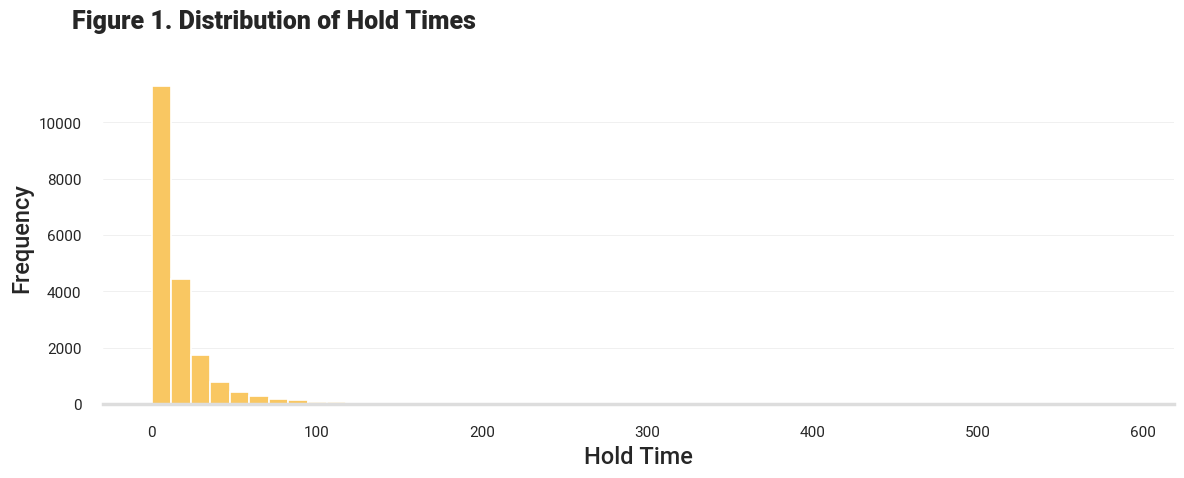
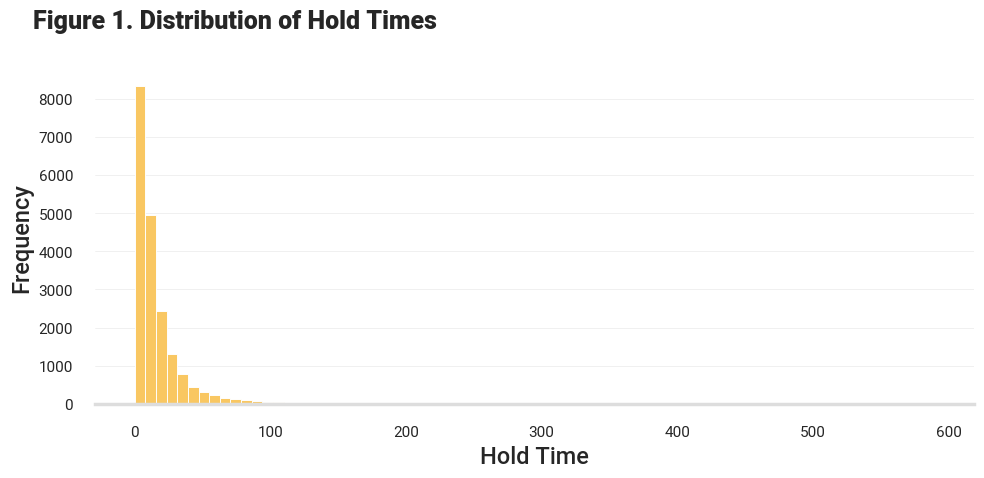
Update documentation

diff --git a/searchindex.js b/searchindex.js
@@ -1,1 +1,1 @@
-Search.setIndex({docnames:["Notebook1-EDA","Notebook2-DataCleaning","Notebook3-FeatureEngineering","Notebook4-FeatureImportance","intro"],envversion:{"sphinx.domains.c":2,"sphinx.domains.changeset":1,"sphinx.domains.citation":1,"sphinx.domains.cpp":5,"sphinx.domains.index":1,"sphinx.domains.javascript":2,"sphinx.domains.math":2,"sphinx.domains.python":3,"sphinx.domains.rst":2,"sphinx.domains.std":2,"sphinx.ext.intersphinx":1,"sphinxcontrib.bibtex":9,sphinx:56},filenames:["Notebook1-EDA.ipynb","Notebook2-DataCleaning.ipynb","Notebook3-FeatureEngineering.ipynb","Notebook4-FeatureImportance.ipynb","intro.md"],objects:{},objnames:{},objtypes:{},terms:{"0":[0,1,2,3,4],"00":3,"000":3,"000000":3,"0005":3,"001":3,"0011":3,"001191":3,"0014":3,"001416":3,"0016":3,"002":3,"002352":3,"003":3,"0034":3,"003580":3,"004":3,"004491":3,"005":3,"0050":3,"0052":3,"006":3,"007":3,"007307":3,"008":3,"009":3,"01":3,"010":3,"011":3,"011825":3,"015663":3,"015915":3,"016813":3,"017":3,"019":3,"019384e":3,"02":3,"023":3,"0230":3,"024":3,"025":3,"026":3,"03":4,"032":3,"033324":3,"041":3,"042":3,"043080":3,"044":3,"044989":3,"046877":3,"05":3,"056":3,"061":3,"070":3,"077603":[0,2],"083971":[0,2,4],"088650":3,"09":3,"1":[2,4],"10":[0,2,3,4],"100":[0,3],"1000":4,"103":3,"105":3,"1085":1,"11":[1,3],"118":3,"12":[0,3],"1200":0,"121":3,"126":3,"128":3,"13":[2,3],"130":3,"134":3,"139":1,"14":3,"1400":2,"1414":2,"14511":3,"14540":3,"149477e":3,"14e":3,"15":[0,3,4],"150":[0,1,3],"151":[0,3],"1552":2,"16":[0,3],"160":[0,1,3],"164":[2,4],"168":3,"17":[0,3],"170":[0,1],"174":3,"177":[0,1],"178":3,"18":[0,3],"180":3,"181":[1,3],"18255":4,"189":3,"192":3,"19387":[1,2,3],"195":[1,2,3,4],"19733":[0,4],"2":[2,4],"20":[0,2,3],"200":3,"2005":1,"2023":[3,4],"21":3,"213":3,"213131":3,"2139":3,"216":3,"2194":3,"21e":3,"22":[0,2,3,4],"220":[1,2,4],"222":[2,4],"224":3,"225":3,"226":3,"23":3,"233":3,"238":3,"239":3,"2403":3,"242":[0,1,3],"244420e":3,"246":3,"25":[1,3],"250":3,"252":3,"257":3,"258":3,"258662":3,"260":3,"262e":3,"263":3,"264e":3,"27":3,"2771":3,"278":[0,1],"28":3,"284934":2,"29":3,"297":3,"3":[0,4],"300":[0,1],"303165":2,"305":3,"306":3,"308":3,"3095":3,"312":3,"318":3,"32":3,"320":[0,1],"331":3,"332":[2,4],"333":1,"334":3,"335665":2,"341":3,"342":3,"3435":3,"347115e":3,"351":3,"353840e":3,"3715":3,"3769":3,"377":3,"379":3,"382":3,"383":3,"387":[0,1],"39":0,"4":[0,2,4],"402":3,"407":3,"421600e":3,"422053647064944":3,"427657e":3,"435":3,"436204414656602":3,"447865314968272":3,"449":3,"45":3,"454":3,"456":[1,2,4],"4615":3,"467":3,"476563":2,"480":3,"4847":3,"485":[2,4],"488":3,"496":2,"497":3,"4th":1,"5":[0,1,2,3,4],"50":[0,3],"500":0,"5053":3,"506":3,"5168":3,"523":3,"526":3,"529":3,"532":3,"5342":3,"543":3,"546":3,"548":[1,2,3,4],"550938":2,"560":3,"566":3,"567":3,"568":3,"570":3,"571":3,"572":3,"575958":3,"583":3,"587":3,"596":3,"597":3,"5982":3,"6":[3,4],"605":3,"607699":3,"61":3,"610":3,"617":3,"620":3,"622190e":3,"62234436965736":3,"628":3,"63076":3,"6361":3,"638":3,"641":3,"644":3,"646":3,"650":3,"665":3,"6691":3,"6735":3,"675":1,"688":3,"68e":3,"7":3,"70":3,"700":2,"705":3,"707":2,"720":3,"740":3,"748214e":3,"750":3,"7507":3,"756":3,"757":3,"758":3,"775":1,"782904e":3,"784":3,"792":3,"8":[1,3],"811":3,"826":3,"8286":3,"829":3,"835529e":3,"839":3,"8460":3,"8465":3,"847":3,"855":2,"864":3,"865032":[0,2,4],"867834e":3,"8729":3,"878":3,"8875":3,"890":3,"8987":3,"9":[0,2,3],"901":3,"9068":3,"910":[1,3],"911":3,"912":3,"914":3,"920":[0,1,4],"925":3,"932":3,"939411":[0,1,2,4],"944098e":3,"945":3,"955":3,"957":3,"958":3,"965":3,"9655":3,"968":1,"97048":3,"974":3,"975":3,"979":3,"985":3,"986":3,"9866":3,"988677e":3,"991":3,"998885":[0,1,2,4],"999":3,"const":3,"do":1,"final":4,"float":[1,3],"import":[0,2,4],"int":[0,1,2],"null":4,"return":[3,4],"true":[0,1,2,3],"try":[1,3],"while":[0,4],A:[0,1],For:0,Is:0,No:[0,1,3],Of:[0,2],On:0,The:[0,1,3],Their:4,_static:0,about:[1,3],activ:4,ad:1,adam:0,add:3,add_const:3,adj:3,adjust:0,agg:1,aic:3,aishwarya:4,alexand:4,all:1,alpha:0,alphons:[0,1],american:[0,1],amp:0,an:[0,2,4],analysi:4,ani:3,ann:[0,1],annot:3,anth:1,antho:1,antholog:[0,1],anyth:[1,3],api:3,appear:1,append:2,appli:1,ar:[0,3],arang:2,arbitrari:2,argument:0,arrai:0,artifact:[0,1,2,4],artist:0,ascend:3,assum:3,astyp:[0,1,3],avail:1,averag:[0,1,3],avg:1,avg_pc1:1,avg_pc2:1,ax:0,axi:[0,1,2,3],b:0,bar:3,base:4,becaus:1,befor:1,bell:[0,1],bera:3,best_params_:3,better:0,between:0,bic:3,bin3:2,bin6:2,bin8:2,bin9:2,bin:[0,2],bin_label:2,bottom:0,box:2,boxplot:0,branch:2,brand:[0,1],brand_1:[1,2,4],brand_1_artifact:3,brand_1_davici:3,brand_1_ecru:3,brand_1_liberti:3,brand_1_nautilu:3,brand_1_oth:3,brand_1_stav:3,brand_1_unknown:3,brand_1_wentworth:3,brand_2:[1,2,4],brand_2_artifact:3,brand_2_davici:3,brand_2_ecru:3,brand_2_liberti:3,brand_2_nautilu:3,brand_2_oth:3,brand_2_stav:3,brand_2_unknown:3,brand_2_wentworth:3,bring:3,build:3,busi:4,c:0,calcul:3,call:0,can:[1,2],cannot:3,cat:[0,1,2],categori:0,check:0,citi:[0,2],clean:[0,3,4],clear:0,club:4,cmap:3,code:2,coef:3,coef_:3,coeffici:3,color:[0,1],color_dict:0,column:[0,1,3,4],com:4,comment:[0,1],common:1,compani:4,complet:4,concat:[1,2,3],concat_df1:2,concat_df2:2,cond:3,consid:4,consist:0,consum:4,contain:4,corr:3,correctli:3,correl:3,cost:4,coulmn:0,count:[0,1],covari:3,cox:2,creat:[0,2,3],crucial:0,csv:[0,1,2,3,4],current:4,cut:[0,1,2,3],cv:3,dai:0,data:[2,3],datafram:[0,2,3],dataplot:3,dataset:3,datatyp:1,date:3,davici:[0,1,2,4],dddddd:0,deal:4,dealt:1,decisiontreeregressor:3,def:3,dep:3,design:3,despin:0,determin:4,df:[1,3],df_clean:[1,2,4],df_features_combin:[2,3],diana:[0,2],dict:3,dictionari:3,difficulti:[0,1],difficulty_map:1,difficulty_r:[0,1],difficulty_rating_1:[0,1,2,3,4],difficulty_rating_2:[0,1,2,3,4],difficulty_rating_pack:[2,3],displai:3,distribut:0,doe:0,doesnt:3,done:1,dpi:0,drop:[1,3],drop_dupl:1,dropna:0,dt:4,dtree_grid_search:3,dtree_gscv:3,dtree_model:3,dtype:[0,1,2],dummi:3,durbin:3,dure:0,e:1,each:0,earlier:1,easi:[0,1],easili:1,eeeeee:0,eigenvalu:3,elif:1,els:[1,2],empti:3,end:0,engin:4,ensembl:3,enthusiast:4,err:3,error:[1,3],est2:3,est:3,exampl:0,except:1,expand:[0,1],explor:0,exploratori:4,extra:0,f9c762:0,f:[2,3],factor:4,fair:0,fals:[0,1,2,3],fb607f:0,feast:[0,1,2,4],feat:3,feats_rf:3,featur:[1,4],feature_import:3,feature_importances_:3,feature_nam:3,ff3d4d:0,ffa07a:0,fig:0,figsiz:[0,3],figur:[0,3],file:2,fill:3,fillna:1,filterwarn:[0,2],finish:4,first:[0,3],fit:3,fix:1,floral:0,fly:[0,2,4],follow:0,format:0,found:0,frame:[0,1],freq:0,frequenc:0,frigat:[0,2,4],from:[1,2,3],from_dict:3,full:[0,1,2,4],fun:0,g:0,gain:0,gener:4,get:[1,3],get_dummi:3,gini:3,goal:4,gothic:[0,1],greatest:0,grid:0,gridsearch:3,gridsearchcv:3,group:2,groupbi:1,groupby_brand_diff_1:1,groupby_brand_diff_2:1,groupby_brand_pieces_1:1,groupby_brand_pieces_2:1,h:[2,4],ha:0,had:0,haeckel:[0,2,4],hand:[0,1,3],hannah:4,happi:0,hard:[0,1],have:[0,1],head:[0,1,2,3,4],header:[0,4],heatmap:3,heavi:0,hillgrov:[0,1,2,4],histplot:0,hobbi:0,hoefnagel:4,hold:[0,3,4],hold_times_dist2:0,hold_times_dist:0,holdtim:[0,1,2,3,4],hopefulli:3,hors:0,hous:0,how:1,http:4,hummingbird:[0,2,4],i:[1,2],ideal:1,identifi:0,ignor:[0,1,2],imag:0,importances_rf:3,improv:2,imput:1,include_lowest:2,index:[0,1,2,3],indic:3,inform:1,initi:1,inplac:1,int64:1,isna:1,isnan:2,isnul:1,iterrow:2,its:1,jarqu:3,jb:3,jigsaw:4,jon:2,jonathan:4,just:[2,3],justin:[0,1,2,4],kimono:0,kind:3,know:1,known:1,known_brand:1,kurtosi:3,la:[0,1],label:[0,2,4],lambda:1,laser:3,least:3,left:[0,1],left_on:1,legend:0,legit:1,len:[1,2,3],level:1,li:4,liberti:[0,2,4],librari:[0,3,4],life:0,like:0,likelihood:3,limit:1,linear_model:3,linearregress:3,list:[1,2],ll:0,load:3,loc:[0,1],locat:4,log:3,longrightarrow:1,look:0,lower:0,lr:4,luebber:4,m:0,madalyn:[2,4],mae:[3,4],mai:0,make:[0,2,3],map:[1,2],mar:3,math:2,matplotlib:[0,2],matrix:3,max:2,max_depth:3,mean:[1,3],mean_absolute_error:3,mean_squared_error:3,median:1,member1:[0,1,2,4],member:[3,4],member_df:4,member_hold_times_and_pack:0,member_hold_times_and_packs_feb16_2023:0,member_holdtime_df:[0,1],memberid:[0,1,2,4],members_dist2:0,merg:4,method:[2,3],methodolog:1,metric:3,might:3,mikado:[0,1],min:2,miracl:0,miss:[0,1],missing_pack_data:1,mode:1,model:4,model_dt:3,model_lr:3,model_rf:3,model_select:3,month:0,moon:[0,1,2,4],more:0,most:1,mother:0,mucha:[0,1],multicollinear:3,must:1,n:1,n_estim:3,na_act:1,name:[0,1,2,3],nan:[0,1],nautilu:[0,2,4],necessari:0,need:[1,3],network:4,next:4,nfold:3,none:0,nonrobust:3,normal:3,note:[0,3],notna:1,now:[3,4],np:[0,2,3],num_puzzl:[1,2,3,4],number:[0,1,4],numpi:[0,2],nuniqu:1,object:[0,2],observ:[0,3],ol:4,omnibu:3,onc:0,one:0,onli:[0,1],onward:1,optim:4,order:[0,1,2],orient:3,other:[0,1],out:2,outlier:1,over:[0,1,4],overal:4,p:3,pack:4,pack_nam:[0,1,2,3,4],packnam:0,packs_df:[0,1],packs_df_temp_1:0,packs_df_temp_2:0,packs_feb16_2023:0,packs_upd:1,pair:3,palett:0,panda:[0,2,4],param_grid:3,pass:1,pattern:0,pd:[0,1,2,3,4],per:[0,4],perform:0,person:[0,4],pick:2,piec:[0,1],piece_1:1,piece_count:[0,1],piece_count_1:[0,1,2,3,4],piece_count_2:[0,1,2,3,4],piece_count_pack:[2,3],piececount:1,pieces_by_difficulti:2,pieces_d1:[2,3],pieces_d2:[2,3],pieces_d3:[2,3],pieces_d4:[2,3],pieces_d:2,pieces_df:2,plant:0,plot:3,plt:[0,2,3],plume:[0,1],png:0,port:4,power_transform:2,pred1:3,pred2:3,pred3:3,pred4:3,predict:[3,4],preliminari:4,preprocess:2,print:[1,3],prob:3,problem:3,process:4,put:0,puzz:1,puzzl:[0,1,2,4],puzzlepack:[0,1,2,4],pyplot:[0,2],question:0,r:3,random_st:3,randomforestregressor:3,rang:[1,2],rank:4,rate:0,read_csv:[0,1,2,3,4],realli:[0,1],recommend:1,reduc:4,reef:0,relationship:0,remov:1,renam:[1,3],rent:4,replac:1,repres:4,reset_index:[0,1],residu:3,result:3,rf:4,rf_grid_search:3,rf_gscv:3,rf_model:3,right:[0,1,3,4],right_on:1,rot:3,row:[1,2,4],s:[0,2,4],sai:3,same:1,satisfact:4,save:2,savefig:0,scienc:4,seaborn:[0,2],second:1,seem:1,sep:0,separ:0,seri:1,set:[0,1,2,3],set_color:0,set_fonts:0,set_titl:0,sever:4,shape:[0,1,2,3],ship:4,should:1,show:[0,3],simpl:3,sinc:1,singh:4,singular:3,site:4,size:0,skew:3,sklearn:[2,3],sma:3,smallest:3,sn:[0,2,3],some:1,someth:0,sort_valu:3,south:0,space:0,specifi:3,spine:0,split:[0,1,3],squar:3,standard:3,start:[0,4],statist:3,statsmodel:3,std:3,step:[0,2],still:1,str:[0,1,2],string:0,strong:3,subplot:0,subset:0,sum:1,summari:3,surpris:3,t:[0,3],tabl:4,take:[0,1,2],temporari:0,test:3,test_siz:3,than:0,thei:4,thi:[0,1,2,3,4],thing:2,third:1,thom:1,thompson:[0,1],tight_layout:0,time:[0,1,3,4],tip:1,titl:0,to_csv:[0,1,2],townsend:4,train:3,train_holdtime_mean:3,train_test_split:3,transform:2,transpos:3,travel:[0,1,2,4],tsv:0,twice:0,two:[0,1],type:3,ultim:4,underscor:0,understand:0,union:1,uniqu:[0,1],univers:4,unknown:1,up:0,updat:1,url:4,us:[1,2,3],user:4,valid:3,valu:[0,1,3],value_count:0,variabl:[1,3],visit:4,w_pieces_diff:2,w_pieces_diff_transform:[2,3],wa:1,want:3,warn:[0,2],washington:4,watson:3,we:[0,1,3],wed:3,weight:[0,2],west:0,what:0,when:[0,4],which:[1,4],whose:0,wise:0,wishlist:4,wooden:4,woodenjigsawpuzzl:4,word:[0,1,2,4],world:0,worldwid:4,www:4,x2:3,x:[0,1,2,3],x_test:3,x_train:3,xaxi:0,xlabel:0,y:[0,3],y_test:3,y_train:3,yaxi:0,ylabel:0,ylgnbu:3,z:0,zimen:[0,2],zip:3},titles:["1. Preliminary Data Analysis","2. Data Cleaning","3. Feature Engineering","4. Feature Importances","Introduction"],titleterms:{"1":[0,1,3],"2":[0,1,3],"3":[1,2,3],"4":[1,3],"final":1,"import":3,"null":1,all:3,analysi:0,benchmark:3,citat:4,clean:1,column:2,combin:[2,4],count:2,d1:2,d2:2,d3:2,d4:2,data:[0,1,4],deal:1,decis:3,difficulti:2,each:2,engin:2,featur:[2,3],feautr:2,first:2,forest:3,introduct:4,level:2,linear:3,make:1,member:[0,1],merg:[1,3],model:3,notebook:4,number:2,ol:3,overview:4,pack:[0,1,2],piec:2,preliminari:0,preview:4,project:4,random:3,regress:3,second:2,singl:2,third:2,total:2,tree:3,valu:2}})
+Search.setIndex({docnames:["Notebook1-EDA","Notebook2-DataCleaning","Notebook3-FeatureEngineering","Notebook4-FeatureImportance","intro"],envversion:{"sphinx.domains.c":2,"sphinx.domains.changeset":1,"sphinx.domains.citation":1,"sphinx.domains.cpp":5,"sphinx.domains.index":1,"sphinx.domains.javascript":2,"sphinx.domains.math":2,"sphinx.domains.python":3,"sphinx.domains.rst":2,"sphinx.domains.std":2,"sphinx.ext.intersphinx":1,"sphinxcontrib.bibtex":9,sphinx:56},filenames:["Notebook1-EDA.ipynb","Notebook2-DataCleaning.ipynb","Notebook3-FeatureEngineering.ipynb","Notebook4-FeatureImportance.ipynb","intro.md"],objects:{},objnames:{},objtypes:{},terms:{"0":[0,1,2,3,4],"00":3,"000":3,"000000":3,"0005":3,"001":3,"0011":3,"001191":3,"0014":3,"001416":3,"0016":3,"002":3,"002352":3,"003":3,"0034":3,"003580":3,"004":3,"004491":3,"005":3,"0050":3,"0052":3,"006":3,"007":3,"007307":3,"008":3,"009":3,"01":3,"010":3,"011":3,"011825":3,"015663":3,"015915":3,"016813":3,"017":3,"019":3,"019384e":3,"02":3,"023":3,"0230":3,"024":3,"025":3,"026":3,"03":4,"032":3,"033324":3,"041":3,"042":3,"043080":3,"044":3,"044989":3,"046877":3,"05":3,"056":3,"061":3,"070":3,"077603":[0,2],"083971":[0,2,4],"088650":3,"09":3,"1":[2,4],"10":[0,2,3,4],"100":[0,3],"1000":4,"103":3,"105":3,"1085":1,"11":[1,3],"118":3,"12":[0,3],"1200":0,"121":3,"126":3,"128":3,"13":[2,3],"130":3,"134":3,"139":1,"14":3,"1400":2,"1414":2,"14511":3,"14540":3,"149477e":3,"14e":3,"15":[0,3,4],"150":[0,1,3],"151":[0,3],"1552":2,"16":[0,3],"160":[0,1,3],"164":[2,4],"168":3,"17":[0,3],"170":[0,1],"174":3,"177":[0,1],"178":3,"18":[0,3],"180":3,"181":[1,3],"18255":4,"189":3,"192":3,"19387":[1,2,3],"195":[1,2,3,4],"19733":[0,4],"2":[2,4],"20":[0,2,3],"200":3,"2005":1,"2023":[3,4],"21":3,"213":3,"213131":3,"2139":3,"216":3,"2194":3,"21e":3,"22":[0,2,3,4],"220":[1,2,4],"222":[2,4],"224":3,"225":3,"226":3,"23":3,"233":3,"238":3,"239":3,"2403":3,"242":[0,1,3],"244420e":3,"246":3,"25":[1,3],"250":3,"252":3,"257":3,"258":3,"258662":3,"260":3,"262e":3,"263":3,"264e":3,"27":3,"2771":3,"278":[0,1],"28":3,"284934":2,"29":3,"297":3,"3":[0,4],"300":[0,1],"303165":2,"305":3,"306":3,"308":3,"3095":3,"312":3,"318":3,"32":3,"320":[0,1],"331":3,"332":[2,4],"333":1,"334":3,"335665":2,"341":3,"342":3,"3435":3,"347115e":3,"351":3,"353840e":3,"3715":3,"3769":3,"377":3,"379":3,"382":3,"383":3,"387":[0,1],"39":0,"4":[0,2,4],"402":3,"407":3,"421600e":3,"422053647064944":3,"427657e":3,"435":3,"436204414656602":3,"447865314968272":3,"449":3,"45":3,"454":3,"456":[1,2,4],"4615":3,"467":3,"476563":2,"480":3,"4847":3,"485":[2,4],"488":3,"496":2,"497":3,"4th":1,"5":[0,1,2,3,4],"50":3,"500":0,"5053":3,"506":3,"5168":3,"523":3,"526":3,"529":3,"532":3,"5342":3,"543":3,"546":3,"548":[1,2,3,4],"550938":2,"560":3,"566":3,"567":3,"568":3,"570":3,"571":3,"572":3,"575958":3,"583":3,"587":3,"596":3,"597":3,"5982":3,"6":[3,4],"605":3,"607699":3,"61":3,"610":3,"617":3,"620":3,"622190e":3,"62234436965736":3,"628":3,"63076":3,"6361":3,"638":3,"641":3,"644":3,"646":3,"650":3,"665":3,"6691":3,"6735":3,"675":1,"688":3,"68e":3,"7":3,"70":3,"700":2,"705":3,"707":2,"720":3,"740":3,"748214e":3,"75":0,"750":3,"7507":3,"756":3,"757":3,"758":3,"775":1,"782904e":3,"784":3,"792":3,"8":[1,3],"811":3,"826":3,"8286":3,"829":3,"835529e":3,"839":3,"8460":3,"8465":3,"847":3,"855":2,"864":3,"865032":[0,2,4],"867834e":3,"8729":3,"878":3,"8875":3,"890":3,"8987":3,"9":[0,2,3],"901":3,"9068":3,"910":[1,3],"911":3,"912":3,"914":3,"920":[0,1,4],"925":3,"932":3,"939411":[0,1,2,4],"944098e":3,"945":3,"955":3,"957":3,"958":3,"965":3,"9655":3,"968":1,"97048":3,"974":3,"975":3,"979":3,"985":3,"986":3,"9866":3,"988677e":3,"991":3,"998885":[0,1,2,4],"999":3,"const":3,"do":1,"final":4,"float":[1,3],"import":[0,2,4],"int":[0,1,2],"null":4,"return":[3,4],"true":[0,1,2,3],"try":[1,3],"while":[0,4],A:[0,1],For:0,Is:0,No:[0,1,3],Of:[0,2],On:0,The:[0,1,3],Their:4,_static:0,about:[1,3],activ:4,ad:1,adam:0,add:3,add_const:3,adj:3,adjust:0,agg:1,aic:3,aishwarya:4,alexand:4,all:1,alpha:0,alphons:[0,1],american:[0,1],amp:0,an:[0,2,4],analysi:4,ani:3,ann:[0,1],annot:3,anth:1,antho:1,antholog:[0,1],anyth:[1,3],api:3,appear:1,append:2,appli:1,ar:[0,3],arang:2,arbitrari:2,argument:0,arrai:0,artifact:[0,1,2,4],artist:0,ascend:3,assum:3,astyp:[0,1,3],avail:1,averag:[0,1,3],avg:1,avg_pc1:1,avg_pc2:1,ax:0,axi:[0,1,2,3],b:0,bar:3,base:4,becaus:1,befor:1,bell:[0,1],bera:3,best_params_:3,better:0,between:0,bic:3,bin3:2,bin6:2,bin8:2,bin9:2,bin:[0,2],bin_label:2,bottom:0,box:2,boxplot:0,branch:2,brand:[0,1],brand_1:[1,2,4],brand_1_artifact:3,brand_1_davici:3,brand_1_ecru:3,brand_1_liberti:3,brand_1_nautilu:3,brand_1_oth:3,brand_1_stav:3,brand_1_unknown:3,brand_1_wentworth:3,brand_2:[1,2,4],brand_2_artifact:3,brand_2_davici:3,brand_2_ecru:3,brand_2_liberti:3,brand_2_nautilu:3,brand_2_oth:3,brand_2_stav:3,brand_2_unknown:3,brand_2_wentworth:3,bring:3,build:3,busi:4,c:0,calcul:3,call:0,can:[1,2],cannot:3,cat:[0,1,2],categori:0,check:0,citi:[0,2],clean:[0,3,4],clear:0,club:4,cmap:3,code:2,coef:3,coef_:3,coeffici:3,color:[0,1],color_dict:0,column:[0,1,3,4],com:4,comment:[0,1],common:1,compani:4,complet:4,concat:[1,2,3],concat_df1:2,concat_df2:2,cond:3,consid:4,consist:0,consum:4,contain:4,corr:3,correctli:3,correl:3,cost:4,coulmn:0,count:[0,1],covari:3,cox:2,creat:[0,2,3],crucial:0,csv:[0,1,2,3,4],current:4,cut:[0,1,2,3],cv:3,dai:0,data:[2,3],datafram:[0,2,3],dataplot:3,dataset:3,datatyp:1,date:3,davici:[0,1,2,4],dddddd:0,deal:4,dealt:1,decisiontreeregressor:3,def:3,dep:3,design:3,despin:0,determin:4,df:[1,3],df_clean:[1,2,4],df_features_combin:[2,3],diana:[0,2],dict:3,dictionari:3,difficulti:[0,1],difficulty_map:1,difficulty_r:[0,1],difficulty_rating_1:[0,1,2,3,4],difficulty_rating_2:[0,1,2,3,4],difficulty_rating_pack:[2,3],displai:3,distribut:0,doe:0,doesnt:3,done:1,dpi:0,drop:[1,3],drop_dupl:1,dropna:0,dt:4,dtree_grid_search:3,dtree_gscv:3,dtree_model:3,dtype:[0,1,2],dummi:3,durbin:3,dure:0,e:1,each:0,earlier:1,easi:[0,1],easili:1,eeeeee:0,eigenvalu:3,elif:1,els:[1,2],empti:3,end:0,engin:4,ensembl:3,enthusiast:4,err:3,error:[1,3],est2:3,est:3,exampl:0,except:1,expand:[0,1],explor:0,exploratori:4,extra:0,f9c762:0,f:[2,3],factor:4,fair:0,fals:[0,1,2,3],fb607f:0,feast:[0,1,2,4],feat:3,feats_rf:3,featur:[1,4],feature_import:3,feature_importances_:3,feature_nam:3,ff3d4d:0,ffa07a:0,fig:0,figsiz:[0,3],figur:[0,3],file:2,fill:3,fillna:1,filterwarn:[0,2],finish:4,first:[0,3],fit:3,fix:1,floral:0,fly:[0,2,4],follow:0,format:0,found:0,frame:[0,1],freq:0,frequenc:0,frigat:[0,2,4],from:[1,2,3],from_dict:3,full:[0,1,2,4],fun:0,g:0,gain:0,gener:4,get:[1,3],get_dummi:3,gini:3,goal:4,gothic:[0,1],greatest:0,grid:0,gridsearch:3,gridsearchcv:3,group:2,groupbi:1,groupby_brand_diff_1:1,groupby_brand_diff_2:1,groupby_brand_pieces_1:1,groupby_brand_pieces_2:1,h:[2,4],ha:0,had:0,haeckel:[0,2,4],hand:[0,1,3],hannah:4,happi:0,hard:[0,1],have:[0,1],head:[0,1,2,3,4],header:[0,4],heatmap:3,heavi:0,hillgrov:[0,1,2,4],histplot:0,hobbi:0,hoefnagel:4,hold:[0,3,4],hold_times_dist2:0,hold_times_dist:0,holdtim:[0,1,2,3,4],hopefulli:3,hors:0,hous:0,how:1,http:4,hummingbird:[0,2,4],i:[1,2],ideal:1,identifi:0,ignor:[0,1,2],imag:0,importances_rf:3,improv:2,imput:1,include_lowest:2,index:[0,1,2,3],indic:3,inform:1,initi:1,inplac:1,int64:1,isna:1,isnan:2,isnul:1,iterrow:2,its:1,jarqu:3,jb:3,jigsaw:4,jon:2,jonathan:4,just:[2,3],justin:[0,1,2,4],kimono:0,kind:3,know:1,known:1,known_brand:1,kurtosi:3,la:[0,1],label:[0,2,4],lambda:1,laser:3,least:3,left:[0,1],left_on:1,legend:0,legit:1,len:[1,2,3],level:1,li:4,liberti:[0,2,4],librari:[0,3,4],life:0,like:0,likelihood:3,limit:1,linear_model:3,linearregress:3,list:[1,2],ll:0,load:3,loc:[0,1],locat:4,log:3,longrightarrow:1,look:0,lower:0,lr:4,luebber:4,m:0,madalyn:[2,4],mae:[3,4],mai:0,make:[0,2,3],map:[1,2],mar:3,math:2,matplotlib:[0,2],matrix:3,max:2,max_depth:3,mean:[1,3],mean_absolute_error:3,mean_squared_error:3,median:1,member1:[0,1,2,4],member:[3,4],member_df:4,member_hold_times_and_pack:0,member_hold_times_and_packs_feb16_2023:0,member_holdtime_df:[0,1],memberid:[0,1,2,4],members_dist2:0,merg:4,method:[2,3],methodolog:1,metric:3,might:3,mikado:[0,1],min:2,miracl:0,miss:[0,1],missing_pack_data:1,mode:1,model:4,model_dt:3,model_lr:3,model_rf:3,model_select:3,month:0,moon:[0,1,2,4],more:0,most:1,mother:0,mucha:[0,1],multicollinear:3,must:1,n:1,n_estim:3,na_act:1,name:[0,1,2,3],nan:[0,1],nautilu:[0,2,4],necessari:0,need:[1,3],network:4,next:4,nfold:3,none:0,nonrobust:3,normal:3,note:[0,3],notna:1,now:[3,4],np:[0,2,3],num_puzzl:[1,2,3,4],number:[0,1,4],numpi:[0,2],nuniqu:1,object:[0,2],observ:[0,3],ol:4,omnibu:3,onc:0,one:0,onli:[0,1],onward:1,optim:4,order:[0,1,2],orient:3,other:[0,1],out:2,outlier:1,over:[0,1,4],overal:4,p:3,pack:4,pack_nam:[0,1,2,3,4],packnam:0,packs_df:[0,1],packs_df_temp_1:0,packs_df_temp_2:0,packs_feb16_2023:0,packs_upd:1,pair:3,palett:0,panda:[0,2,4],param_grid:3,pass:1,pattern:0,pd:[0,1,2,3,4],per:[0,4],perform:0,person:[0,4],pick:2,piec:[0,1],piece_1:1,piece_count:[0,1],piece_count_1:[0,1,2,3,4],piece_count_2:[0,1,2,3,4],piece_count_pack:[2,3],piececount:1,pieces_by_difficulti:2,pieces_d1:[2,3],pieces_d2:[2,3],pieces_d3:[2,3],pieces_d4:[2,3],pieces_d:2,pieces_df:2,plant:0,plot:3,plt:[0,2,3],plume:[0,1],png:0,port:4,power_transform:2,pred1:3,pred2:3,pred3:3,pred4:3,predict:[3,4],preliminari:4,preprocess:2,print:[1,3],prob:3,problem:3,process:4,put:0,puzz:1,puzzl:[0,1,2,4],puzzlepack:[0,1,2,4],pyplot:[0,2],question:0,r:3,random_st:3,randomforestregressor:3,rang:[1,2],rank:4,rate:0,read_csv:[0,1,2,3,4],realli:[0,1],recommend:1,reduc:4,reef:0,relationship:0,remov:1,renam:[1,3],rent:4,replac:1,repres:4,reset_index:[0,1],residu:3,result:3,rf:4,rf_grid_search:3,rf_gscv:3,rf_model:3,right:[0,1,3,4],right_on:1,rot:3,row:[1,2,4],s:[0,2,4],sai:3,same:1,satisfact:4,save:2,savefig:0,scienc:4,seaborn:[0,2],second:1,seem:1,sep:0,separ:0,seri:1,set:[0,1,2,3],set_color:0,set_fonts:0,set_titl:0,sever:4,shape:[0,1,2,3],ship:4,should:1,show:[0,3],simpl:3,sinc:1,singh:4,singular:3,site:4,size:0,skew:3,sklearn:[2,3],sma:3,smallest:3,sn:[0,2,3],some:1,someth:0,sort_valu:3,south:0,space:0,specifi:3,spine:0,split:[0,1,3],squar:3,standard:3,start:[0,4],statist:3,statsmodel:3,std:3,step:[0,2],still:1,str:[0,1,2],string:0,strong:3,subplot:0,subset:0,sum:1,summari:3,surpris:3,t:[0,3],tabl:4,take:[0,1,2],temporari:0,test:3,test_siz:3,than:0,thei:4,thi:[0,1,2,3,4],thing:2,third:1,thom:1,thompson:[0,1],tight_layout:0,time:[0,1,3,4],tip:1,titl:0,to_csv:[0,1,2],townsend:4,train:3,train_holdtime_mean:3,train_test_split:3,transform:2,transpos:3,travel:[0,1,2,4],tsv:0,twice:0,two:[0,1],type:3,ultim:4,underscor:0,understand:0,union:1,uniqu:[0,1],univers:4,unknown:1,up:0,updat:1,url:4,us:[1,2,3],user:4,valid:3,valu:[0,1,3],value_count:0,variabl:[1,3],visit:4,w_pieces_diff:2,w_pieces_diff_transform:[2,3],wa:1,want:3,warn:[0,2],washington:4,watson:3,we:[0,1,3],wed:3,weight:[0,2],west:0,what:0,when:[0,4],which:[1,4],whose:0,wise:0,wishlist:4,wooden:4,woodenjigsawpuzzl:4,word:[0,1,2,4],world:0,worldwid:4,www:4,x2:3,x:[0,1,2,3],x_test:3,x_train:3,xaxi:0,xlabel:0,y:[0,3],y_test:3,y_train:3,yaxi:0,ylabel:0,ylgnbu:3,z:0,zimen:[0,2],zip:3},titles:["1. Preliminary Data Analysis","2. Data Cleaning","3. Feature Engineering","4. Feature Importances","Introduction"],titleterms:{"1":[0,1,3],"2":[0,1,3],"3":[1,2,3],"4":[1,3],"final":1,"import":3,"null":1,all:3,analysi:0,benchmark:3,citat:4,clean:1,column:2,combin:[2,4],count:2,d1:2,d2:2,d3:2,d4:2,data:[0,1,4],deal:1,decis:3,difficulti:2,each:2,engin:2,featur:[2,3],feautr:2,first:2,forest:3,introduct:4,level:2,linear:3,make:1,member:[0,1],merg:[1,3],model:3,notebook:4,number:2,ol:3,overview:4,pack:[0,1,2],piec:2,preliminari:0,preview:4,project:4,random:3,regress:3,second:2,singl:2,third:2,total:2,tree:3,valu:2}})

diff --git a/Notebook1-EDA.html b/Notebook1-EDA.html
@@ -487,9 +487,9 @@ title="Print to PDF"
 <div class="cell tag_hide_code tag_hide_input docutils container">
 <div class="cell_input docutils container">
 <div class="highlight-ipython3 notranslate"><div class="highlight"><pre><span></span><span class="c1">## What is the distribution for holdtimes?</span>
-<span class="n">plt</span><span class="o">.</span><span class="n">figure</span><span class="p">(</span><span class="n">figsize</span> <span class="o">=</span> <span class="p">(</span><span class="mi">12</span><span class="p">,</span><span class="mi">5</span><span class="p">))</span>
+<span class="n">plt</span><span class="o">.</span><span class="n">figure</span><span class="p">(</span><span class="n">figsize</span> <span class="o">=</span> <span class="p">(</span><span class="mi">10</span><span class="p">,</span><span class="mi">5</span><span class="p">))</span>
 <span class="n">plt</span><span class="o">.</span><span class="n">title</span><span class="p">(</span><span class="s2">&quot;Figure 1. Distribution of Hold Times&quot;</span><span class="p">,</span> <span class="n">weight</span><span class="o">=</span><span class="s1">&#39;heavy&#39;</span><span class="p">,</span><span class="n">y</span> <span class="o">=</span><span class="mf">1.1</span><span class="p">,</span> <span class="n">x</span><span class="o">=</span><span class="mf">0.16</span><span class="p">)</span><span class="o">.</span><span class="n">set_fontsize</span><span class="p">(</span><span class="s1">&#39;18&#39;</span><span class="p">)</span>
-<span class="n">z</span> <span class="o">=</span> <span class="n">sns</span><span class="o">.</span><span class="n">histplot</span><span class="p">(</span><span class="n">data</span><span class="o">=</span><span class="n">member_holdtime_df</span><span class="p">,</span> <span class="n">x</span><span class="o">=</span><span class="s2">&quot;holdtime&quot;</span><span class="p">,</span> <span class="n">color</span><span class="o">=</span><span class="s2">&quot;#F9C762&quot;</span><span class="p">,</span> <span class="n">alpha</span> <span class="o">=</span> <span class="mf">1.0</span><span class="p">,</span> <span class="n">bins</span> <span class="o">=</span> <span class="mi">50</span><span class="p">)</span>
+<span class="n">z</span> <span class="o">=</span> <span class="n">sns</span><span class="o">.</span><span class="n">histplot</span><span class="p">(</span><span class="n">data</span><span class="o">=</span><span class="n">member_holdtime_df</span><span class="p">,</span> <span class="n">x</span><span class="o">=</span><span class="s2">&quot;holdtime&quot;</span><span class="p">,</span> <span class="n">color</span><span class="o">=</span><span class="s2">&quot;#F9C762&quot;</span><span class="p">,</span> <span class="n">alpha</span> <span class="o">=</span> <span class="mf">1.0</span><span class="p">,</span> <span class="n">bins</span> <span class="o">=</span> <span class="mi">75</span><span class="p">)</span>
 <span class="n">sns</span><span class="o">.</span><span class="n">despine</span><span class="p">(</span><span class="n">left</span><span class="o">=</span><span class="kc">True</span><span class="p">,</span> <span class="n">bottom</span><span class="o">=</span><span class="kc">False</span><span class="p">)</span>
 <span class="n">z</span><span class="o">.</span><span class="n">spines</span><span class="p">[</span><span class="s1">&#39;bottom&#39;</span><span class="p">]</span><span class="o">.</span><span class="n">set_color</span><span class="p">(</span><span class="s1">&#39;#DDDDDD&#39;</span><span class="p">)</span>
 <span class="n">z</span><span class="o">.</span><span class="n">yaxis</span><span class="o">.</span><span class="n">grid</span><span class="p">(</span><span class="kc">True</span><span class="p">,</span> <span class="n">color</span><span class="o">=</span><span class="s1">&#39;#EEEEEE&#39;</span><span class="p">)</span>
